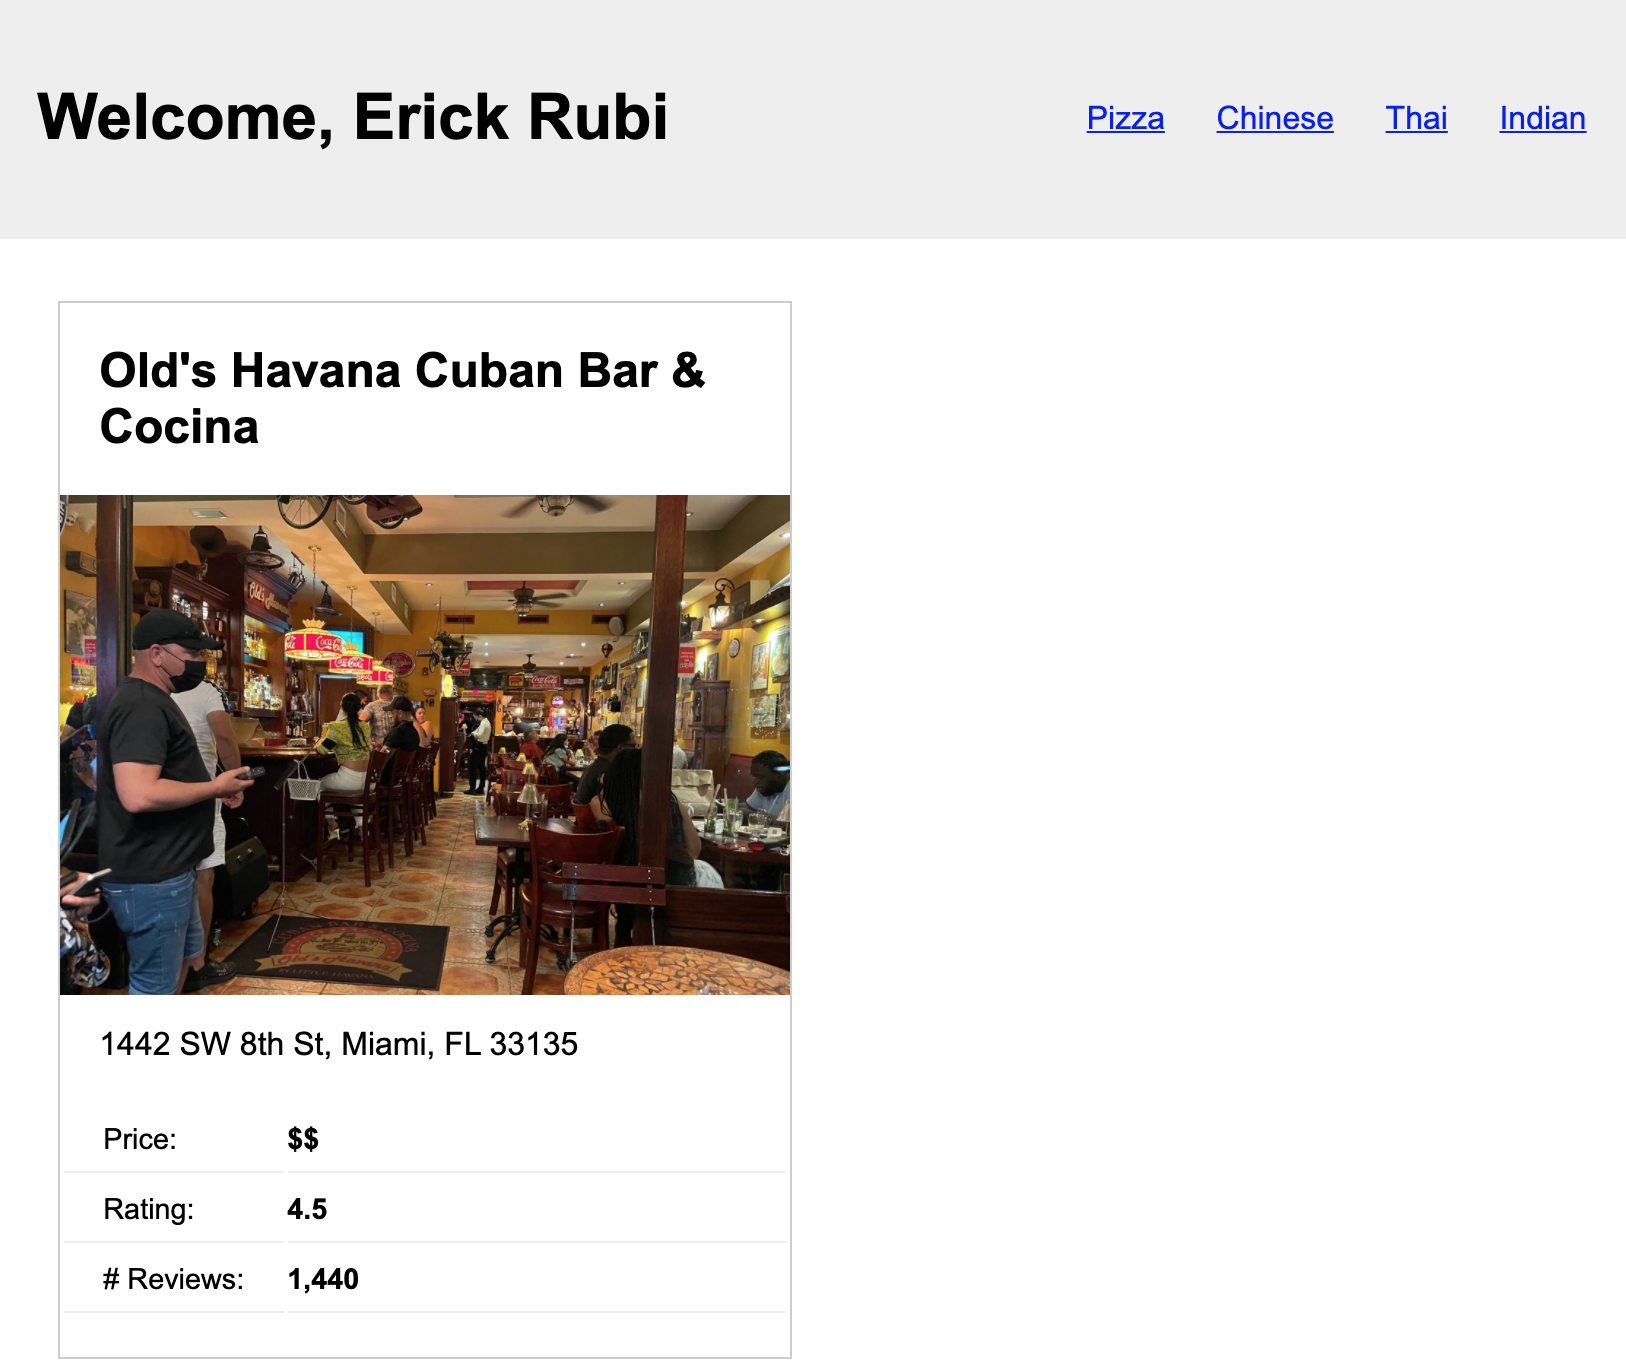
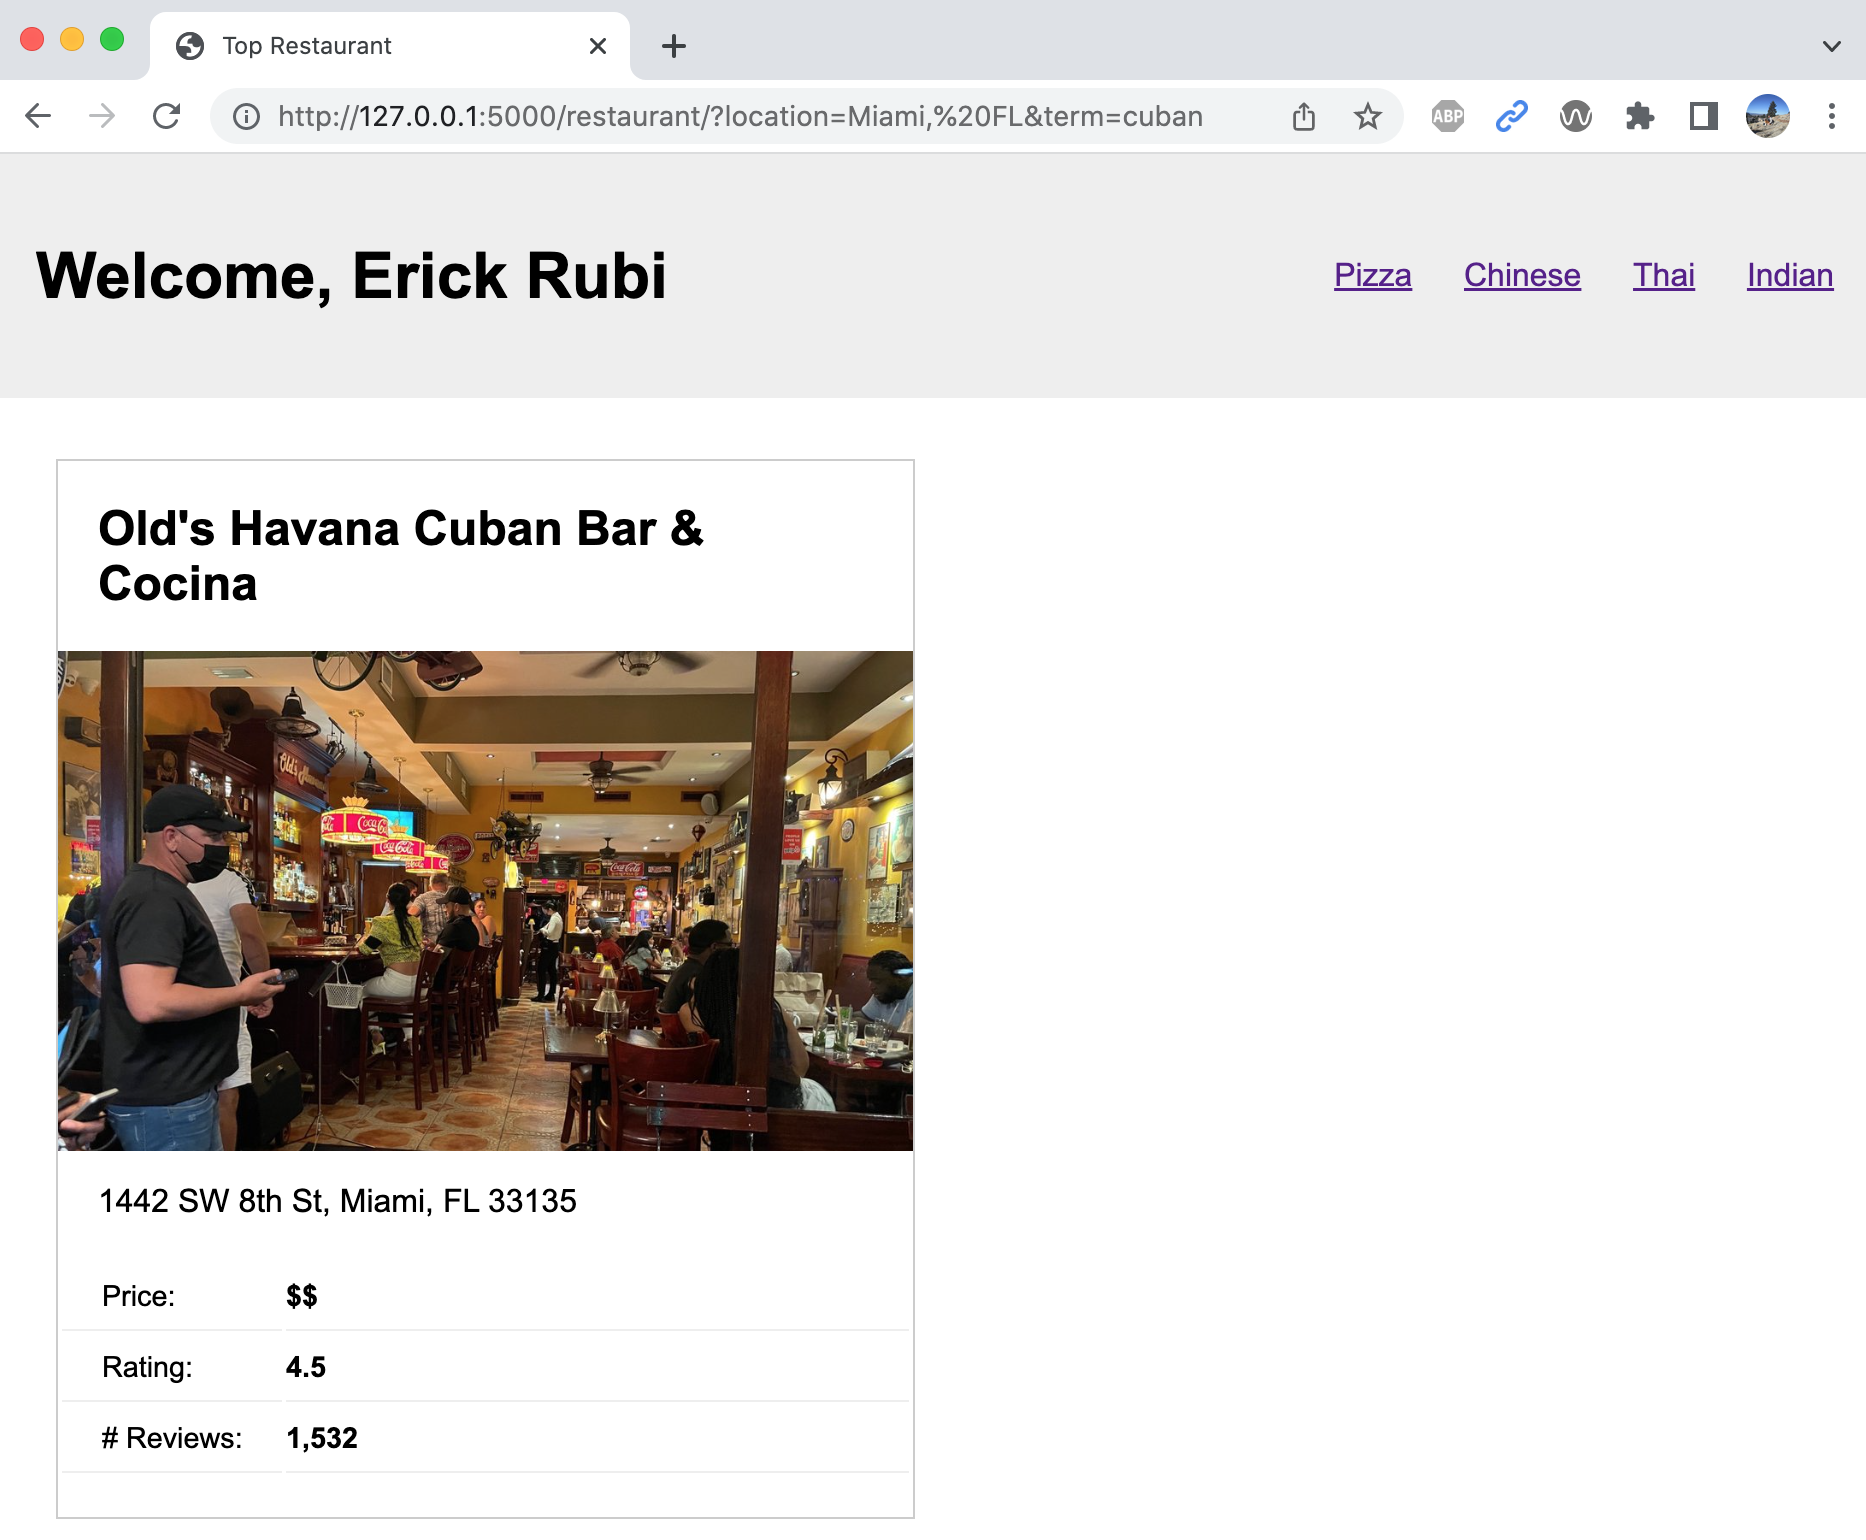
lab updates with venv instructions

diff --git a/course-files/labs/lab02/templates/includes/header-restaurants.html b/course-files/labs/lab02/templates/includes/header-restaurants.html
@@ -2,10 +2,10 @@
     <h1>Welcome, {{ user.get_full_name() }}</h1>
     <nav>
         <ul>
-            <li><a href="/restaurants/{{city}}/pizza">Pizza</a></li>
-            <li><a href="/restaurants/{{city}}/chinese">Chinese</a></li>
-            <li><a href="/restaurants/{{city}}/thai">Thai</a></li>
-            <li><a href="/restaurants/{{city}}/indian">Indian</a></li>
+            <li><a href="/restaurants/?location={{location}}&term=pizza">Pizza</a></li>
+            <li><a href="/restaurants/?location={{location}}&term=chinese">Chinese</a></li>
+            <li><a href="/restaurants/?location={{location}}&term=thai">Thai</a></li>
+            <li><a href="/restaurants/?location={{location}}&term=indian">Indian</a></li>
         </ul>
     </nav>
 </header>

diff --git a/course-files/labs/lab02/templates/includes/header.html b/course-files/labs/lab02/templates/includes/header.html
@@ -2,10 +2,10 @@
     <h1>Welcome, {{ user.get_full_name() }}</h1>
     <nav>
         <ul>
-            <li><a href="/restaurant/{{city}}/pizza">Pizza</a></li>
-            <li><a href="/restaurant/{{city}}/chinese">Chinese</a></li>
-            <li><a href="/restaurant/{{city}}/thai">Thai</a></li>
-            <li><a href="/restaurant/{{city}}/indian">Indian</a></li>
+            <li><a href="/restaurant/?location={{location}}&term=pizza">Pizza</a></li>
+            <li><a href="/restaurant/?location={{location}}&term=chinese">Chinese</a></li>
+            <li><a href="/restaurant/?location={{location}}&term=thai">Thai</a></li>
+            <li><a href="/restaurant/?location={{location}}&term=indian">Indian</a></li>
         </ul>
     </nav>
 </header>

diff --git a/course-files/labs/lab02/templates/restaurant.html b/course-files/labs/lab02/templates/restaurant.html
@@ -11,7 +11,7 @@
     {% include 'includes/header.html' %}
 
     <main>
-        <p>Search location: {{city}}</p>
+        <p>Search location: {{location}}</p>
         <p>Search term: {{search_term or 'None Specified'}}</p>
         <p>Data: {{ restaurant }}</p>
         <h2>Top Restaurant:</h2> 

diff --git a/course-files/labs/lab02/app.py b/course-files/labs/lab02/app.py
@@ -1,5 +1,6 @@
 from flask import Flask
 from flask import render_template
+from flask import request
 import random
 import json
 import requests
@@ -45,12 +46,16 @@ def exercise2():
 ##############
 # Exercise 3 #
 ##############
+@app.route('/restaurant-data/')
 @app.route('/restaurant-data')
 def exercise3():
-    import json
-    search_term = 'pizza'
-    city = 'Evanston, Il'
-    url = 'https://www.apitutor.org/yelp/simple/v3/businesses/search?location={0}&term={1}'.format(city, search_term)
+    args = request.args
+    location = args.get('location')
+    search_term = args.get('term')
+    if not (location and search_term):
+        return '"location" and "term" are required query parameters'
+    
+    url = 'https://www.apitutor.org/yelp/simple/v3/businesses/search?location={0}&term={1}'.format(location, search_term)
     response = requests.get(url)
     data = response.json()
     return json.dumps(data)
@@ -58,11 +63,17 @@ def exercise3():
 ##############
 # Exercise 4 #
 ##############
-@app.route('/restaurant/<city>/<search_term>')
-@app.route('/restaurant/<city>')
+@app.route('/restaurant/')
 @app.route('/restaurant')
-def exercise4(city='Evanston, IL', search_term=''):
-    url = 'https://www.apitutor.org/yelp/simple/v3/businesses/search?location={0}&term={1}'.format(city, search_term)
+def exercise4():
+    args = request.args
+    location = args.get('location')
+    search_term = args.get('term')
+    if not (location and search_term):
+        return '"location" and "term" are required query parameters'
+    
+    
+    url = 'https://www.apitutor.org/yelp/simple/v3/businesses/search?location={0}&term={1}'.format(location, search_term)
     response = requests.get(url)
     restaurants = response.json()
     pprint(restaurants[0]) # for debugging
@@ -70,12 +81,20 @@ def exercise4(city='Evanston, IL', search_term=''):
         'restaurant.html',
         user=current_user,
         search_term=search_term,
-        city=city,
+        location=location,
         restaurant=restaurants[0]
     )
 
+@app.route('/cards/')
 @app.route('/cards')
 def photos_static():
+    args = request.args
+    location = args.get('location')
+    search_term = args.get('term')
+    if not (location and search_term):
+        return '"location" and "term" are required query parameters'
+    
+    
     return render_template('cards.html')
 
 

diff --git a/pages/_assignments/lab02.md b/pages/_assignments/lab02.md
@@ -9,6 +9,14 @@ points: 5
 due_date: 2022-04-08
 ---
 
+<style>
+    table th:first-child, table td:first-child {
+        min-width: auto;
+        max-width: auto;
+        width: auto;
+    }
+</style>
+
 ## 1. Intro to Flask
 <a href="https://flask.palletsprojects.com/en/2.0.x/" target="_blank">Flask</a> is a framework, built with Python, for helping people build dynamic, scalable web applications. We have selected Flask as our web server engine for this quarter because it has a relatively simple set of common abstractions, and is therefore easier to learn than some other frameworks. At the same time, it is also very powerful, and has features such as:
 
@@ -31,7 +39,12 @@ Most frameworks have abstractions similar to those offered by Flask, so once you
 
 
 ## 2. Background Readings
-* Please review the readings from [Lecture 4](../lectures/lecture04).
+Please read the following:
+
+{:.compact}
+* Janetakis, Nick (Oct., 2017). <a href="https://nickjanetakis.com/blog/server-side-templates-vs-rest-api-and-javascript-front-end" target="_blank">Server Side Templates vs REST API and Javascript Front-End</a>.
+* Flask website. <a href="https://flask.palletsprojects.com/en/2.0.x/quickstart/" target="_blank">Flask Quickstart Guide</a>
+* Towards Data Science. <a href="https://towardsdatascience.com/virtual-environments-104c62d48c54#8025" target="_blank">Intro to Python Virtual Environments</a>
 
 ## 3. Set Up
 If you haven't used Python before, please download and install it: <a href="https://www.python.org/downloads/" target="_blank">https://www.python.org/downloads/</a>.
@@ -58,21 +71,20 @@ webdev-labs
     └── templates
 ```
 
-Using Terminal (Mac),  GitBash (Windows), or the Command Prompt (Windows) to navigate to your lab02 folder. Then, install the Python dependencies:
+Using Terminal (Mac),  GitBash (Windows), or the Command Prompt (Windows) to navigate to your lab02 folder. Then, set up a virtual environment and install the dependencies:
 
 ```bash
-pip3 install -r requirements.txt    # install dependencies
+python3 -m venv env
+source env/bin/activate
+pip install -r requirements.txt    # install dependencies
 ```
+
 If that doesn't work (usually on Windows), try:
 ```bash
-py -m pip install -r requirements.txt
-# or one of these:
-# python3 -m pip install -r requirements.txt
-# python -m pip install -r requirements.txt
+py -m venv env
+source env/bin/activate
+pip install -r requirements.txt    # install dependencies
 ```
-
-### If you downloaded lab02.zip **before 6:30PM Wednesday**
-Sarah forgot to add the `requests` module to requirements.txt, so you'll have to install it manually from the command line: `pip3 install requests`
 
 When you're done, try running your flask app from your command line:
 
@@ -117,19 +129,31 @@ You should see the following output:
 
 ### FAQs / Troubleshooting
 Sarah will keep adding FAQs to this section. Some known issues:
-1. As mentioned above, Sarah forgot to include the `requests` module in the original `requirements.txt` installation file. If you downloaded the code before 6:30PM on Wednesday you'll have to install it manually (or else you can re-download the starter files): `pip3 install requests`
+1. If `python3` or `py` aren't recognized, ask your peer mentor / go to office hours. It is important that you figure out how to invoke python from the command line ASAP, as you'll need to do this for the rest of the quarter.
 1. If you are using windows and you can't start flask using the `flask run` command, try: `python -m flask run` 
 
 
 ## 4. Required Flask Exercises
+Once you've set up your flask installation, you will do 5 short exercises:
+
+|  | Exercise | Purpose |
+|--|--|--|
+| 1. | [Display personalized greeting](#task_1) | Practice generating and sending a dynamic string via HTTP |
+| 2. | [Create a template](#task_2) | Practice creating a data-driven, server-side HTML file from a template. Templates allow you to separate the data from the presentation of the data. |
+| 3. | [Accessing data from other servers](#task_3) | Practice retrieving data from another server using query parameters. |
+| 4. | [Accessing data from other servers](#task_4) | Practice retrieving data from another server and sending it to a client. |
+| 5. | [XXX](#task_5) | Practice retrieving data from another server and sending it to a client. |
+
 Please complete the following exercises to get a sense of the kinds of things you can do with Flask:
 
+{:#task_1}
 ### 1. Display personalized greeting
 Update the `exercise1` function so that it returns a personalized greeting to the user. In other words, replace "Hello World!" with something like, "Hi Erick!"
 * Assume that the `current_user` variable, defined at the top of `app.py` represents the user who is currently logged in. 
 
 <img class="medium frame" src="/spring2022/assets/images/labs/lab02/hello-erick.png" />
 
+{:#task_2}
 ### 2. Merge with a template
 The `exercise2` function uses a template to generate its response. Specifically, python reads in the `templates/quote-of-the-day.html` file, finds any python expressions (represented by curly braces), evaluates them, and finally sends a "plain" HTML file back to the client:
 
@@ -150,6 +174,7 @@ Please make the following modifications:
 
 <img class="medium frame" src="/spring2022/assets/images/labs/lab02/erick-quote.png" />
 
+{:#task_3}
 ### 3. Accessing data from other servers
 Servers can also be clients that issue requests to other servers (the thing doing the "asking" is usually referred to as the client). In other words, your Flask server can query data from other servers (using HTTP or other protocols) and then make use of that data in their own way. The `exercise3` function queries a proxy server that Sarah made (<a href="https://www.apitutor.org" target="_blank">https://www.apitutor.org</a>) for accessing Yelp (and other providers). In this example, we are querying Yelp for restaurants that match a ***location*** and ***search term***:
 
@@ -157,8 +182,8 @@ Servers can also be clients that issue requests to other servers (the thing doin
 @app.route('/restaurant-data')
 def exercise3():
     search_term = 'pizza'
-    city = 'Evanston, Il'
-    url = 'https://www.apitutor.org/yelp/simple/v3/businesses/search?location={0}&term={1}'.format(city, search_term)
+    location = 'Evanston, Il'
+    url = 'https://www.apitutor.org/yelp/simple/v3/businesses/search?location={0}&term={1}'.format(location, search_term)
     response = requests.get(url)
     data = response.json()
     pprint(data) # for debugging -- prints the result to the command line
@@ -171,26 +196,36 @@ Note that the `/restaurant-data` route returns a JSON string (instead of an HTML
 You are going to make this route more customizable by replacing the code shown above with this code:
 
 ```python
-@app.route('/restaurant-data/<city>/<search_term>')
-@app.route('/restaurant-data/<city>')
+@app.route('/restaurant-data/')
 @app.route('/restaurant-data')
-def exercise3(city='Evanston, IL', search_term=''):
-    url = 'https://www.apitutor.org/yelp/simple/v3/businesses/search?location={0}&term={1}'.format(city, search_term)
+def exercise3():
+    args = request.args
+    location = args.get('location')
+    search_term = args.get('term')
+    if not (location and search_term):
+        return '"location" and "term" are required query parameters'
+    
+    url = 'https://www.apitutor.org/yelp/simple/v3/businesses/search?location={0}&term={1}'.format(location, search_term)
     response = requests.get(url)
     data = response.json()
     pprint(data) # for debugging -- prints the result to the command line
+
     return json.dumps(data)
 ```
 
-The code above allows function arguments to be passed into the Yelp query based on the route. After making the changes above, test your new routes by experimenting with the following URLs:
+The code above allows the user to specify the location and search term they'd like to use when querying yelp using "query parameters":
 
-* <a href="http://127.0.0.1:5000/restaurant-data" target="_blank">http://127.0.0.1:5000/restaurant-data</a> (All restaurants in Evanston -- defaults to Evanston)
-* <a href="http://127.0.0.1:5000/restaurant-data/Evanston,%20IL" target="_blank">http://127.0.0.1:5000/restaurant-data/Evanston,%20IL</a> (All restaurants in Evanston)
-* <a href="http://127.0.0.1:5000/restaurant-data/Evanston,%20IL/chinese" target="_blank">http://127.0.0.1:5000/restaurant-data/Evanston,%20IL/chinese</a> (Chinese restaurants in Evanston)
-* <a href="http://127.0.0.1:5000/restaurant-data/San Diego,%20CA" target="_blank">http://127.0.0.1:5000/restaurant-data/San Diego,%20CA</a> (All restaurants in San Diego)
-* <a href="http://127.0.0.1:5000/restaurant-data/San Diego,%20CA/thai" target="_blank">http://127.0.0.1:5000/restaurant-data/San Diego,%20CA/thai</a> (Thai restaurants in San Diego)
+{:.compact}
+* The `?` character is used to specify where the route ends and the query parameters begin. 
+* If there is more than one query parameter, then each key-value pair is separated by an `&` character (see examples below). 
+* In flask, you can access the query parameters via the `request.args`, which stores a dictionary representation of any query parameters associated with a given route.
 
-Feel free to replace the cities and search terms with your own! Basic takeaway: you can allow your user to pass data into your functions via the URL.
+After making the changes above, test your new routes by experimenting with the following URLs:
+
+* <a href="http://127.0.0.1:5000/restaurant-data/?location=Evanston,%20IL&term=chinese" target="_blank">http://127.0.0.1:5000/?location=restaurant-data/Evanston,%20IL&term=chinese</a> (Chinese restaurants in Evanston)
+* <a href="http://127.0.0.1:5000/restaurant-data/?location=San Diego,%20CA&term=thai" target="_blank">http://127.0.0.1:5000/restaurant-data/?location=San Diego,%20CA&term=thai</a> (Thai restaurants in San Diego)
+
+Feel free to replace the cities and search terms with your own! Basic takeaway: you can allow your user to pass arguments to your routes via query parameters.
 
 <img class="large frame" src="/spring2022/assets/images/labs/lab02/data-feed-miami-cuban.png" />
 
@@ -199,11 +234,16 @@ Feel free to replace the cities and search terms with your own! Basic takeaway: 
 Now, you're going to create a data-driven **template** to display information about the "Top Restaurant" (according to Yelp) that matches your search criteria. Consider the following code:
 
 ```python
-@app.route('/restaurant/<city>/<search_term>')
-@app.route('/restaurant/<city>')
+@app.route('/restaurant/')
 @app.route('/restaurant')
-def exercise4(city='Evanston, IL', search_term=''):
-    url = 'https://www.apitutor.org/yelp/simple/v3/businesses/search?location={0}&term={1}'.format(city, search_term)
+def exercise4():
+    args = request.args
+    location = args.get('location')
+    search_term = args.get('term')
+    if not (location and search_term):
+        return '"location" and "term" are required query parameters'
+
+    url = 'https://www.apitutor.org/yelp/simple/v3/businesses/search?location={0}&term={1}'.format(location, search_term)
     response = requests.get(url)
     restaurants = response.json()
     pprint(restaurants[0]) # for debugging
@@ -211,18 +251,15 @@ def exercise4(city='Evanston, IL', search_term=''):
         'restaurant.html',
         user=current_user,
         search_term=search_term,
-        city=city,
-        restaurant=restaurants[0]
+        location=location,
+        restaurant=restaurants[0] # just show the first restaurant in the list.
     )
 ```
 
 It works very similarly to the code in exercise 3, except for it merges with the `restaurant.html` template (instead of dumping raw JSON data). Please try testing these routes by experimenting with the following URLs:
 
-* <a href="http://127.0.0.1:5000/restaurant" target="_blank">http://127.0.0.1:5000/restaurant</a> (All restaurants in Evanston -- defaults to Evanston)
-* <a href="http://127.0.0.1:5000/restaurant/Evanston,%20IL" target="_blank">http://127.0.0.1:5000/restaurant/Evanston,%20IL</a> (All restaurants in Evanston)
-* <a href="http://127.0.0.1:5000/restaurant/Evanston,%20IL/chinese" target="_blank">http://127.0.0.1:5000/restaurant/Evanston,%20IL/chinese</a> (Chinese restaurants in Evanston)
-* <a href="http://127.0.0.1:5000/restaurant/San Diego,%20CA" target="_blank">http://127.0.0.1:5000/restaurant/San Diego,%20CA</a> (All restaurants in San Diego)
-* <a href="http://127.0.0.1:5000/restaurant/San Diego,%20CA/thai" target="_blank">http://127.0.0.1:5000/restaurant/San Diego,%20CA/thai</a> (Thai restaurants in San Diego)
+* <a href="http://127.0.0.1:5000/restaurant/?location=Evanston,%20IL&term=chinese" target="_blank">http://127.0.0.1:5000/restaurant/?location=Evanston,%20IL&term=chinese</a> (Chinese restaurants in Evanston)
+* <a href="http://127.0.0.1:5000/restaurant/?location=San Diego,%20CA&term=thai" target="_blank">http://127.0.0.1:5000/restaurant/?location=San Diego,%20CA/thai</a> (Thai restaurants in San Diego)
 
 Note that the `restaurant.html` template uses a new construct -- the "include" -- as a way to modularize code.
 
@@ -260,11 +297,4 @@ git push     # sends your files to GitHub
 ```
 
 ### 2. Paste a link to your repo on Canvas
-Paste a link to your `webdev-labs` GitHub repository into the Canvas textbox for <a href="https://canvas.northwestern.edu/courses/157233/assignments/1016081" target="_blank">Lab 2</a>.
-
-### 3. Answer the following question on Canvas
-**Below the link to your repo**, in a brief reflective response (about 2-3 sentences per question), please consider the following questions:
-
-- Did you consider conducting accessibility testing on your lab assignment? Why or why not?
-- If you tested your site for accessibility and found issues, were you able to solve them? What did you do to try to solve them? What stopped you from successfully resolving or trying to resolve the issues?
-- How might you change the JSON data response from the Yelp API to enhance accessibility?
+Paste a link to your `webdev-labs` GitHub repository into the Canvas textbox for <a href="#" target="_blank">Lab 2</a>.
